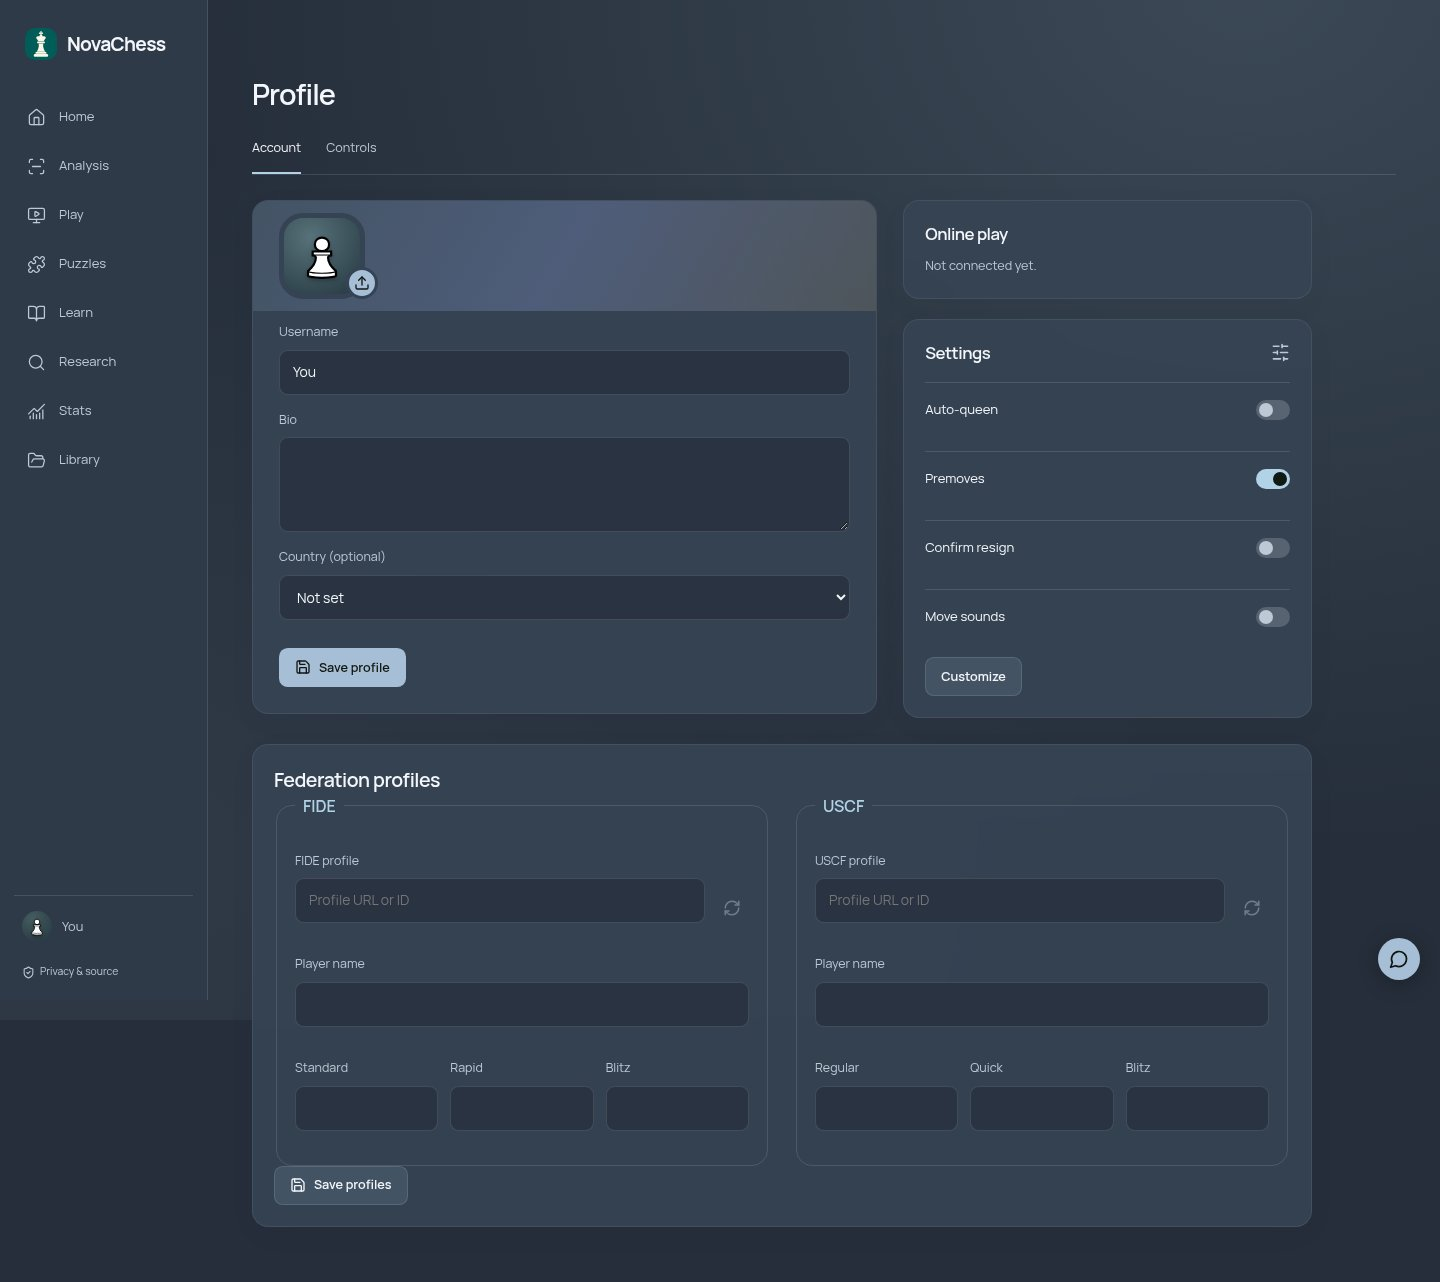
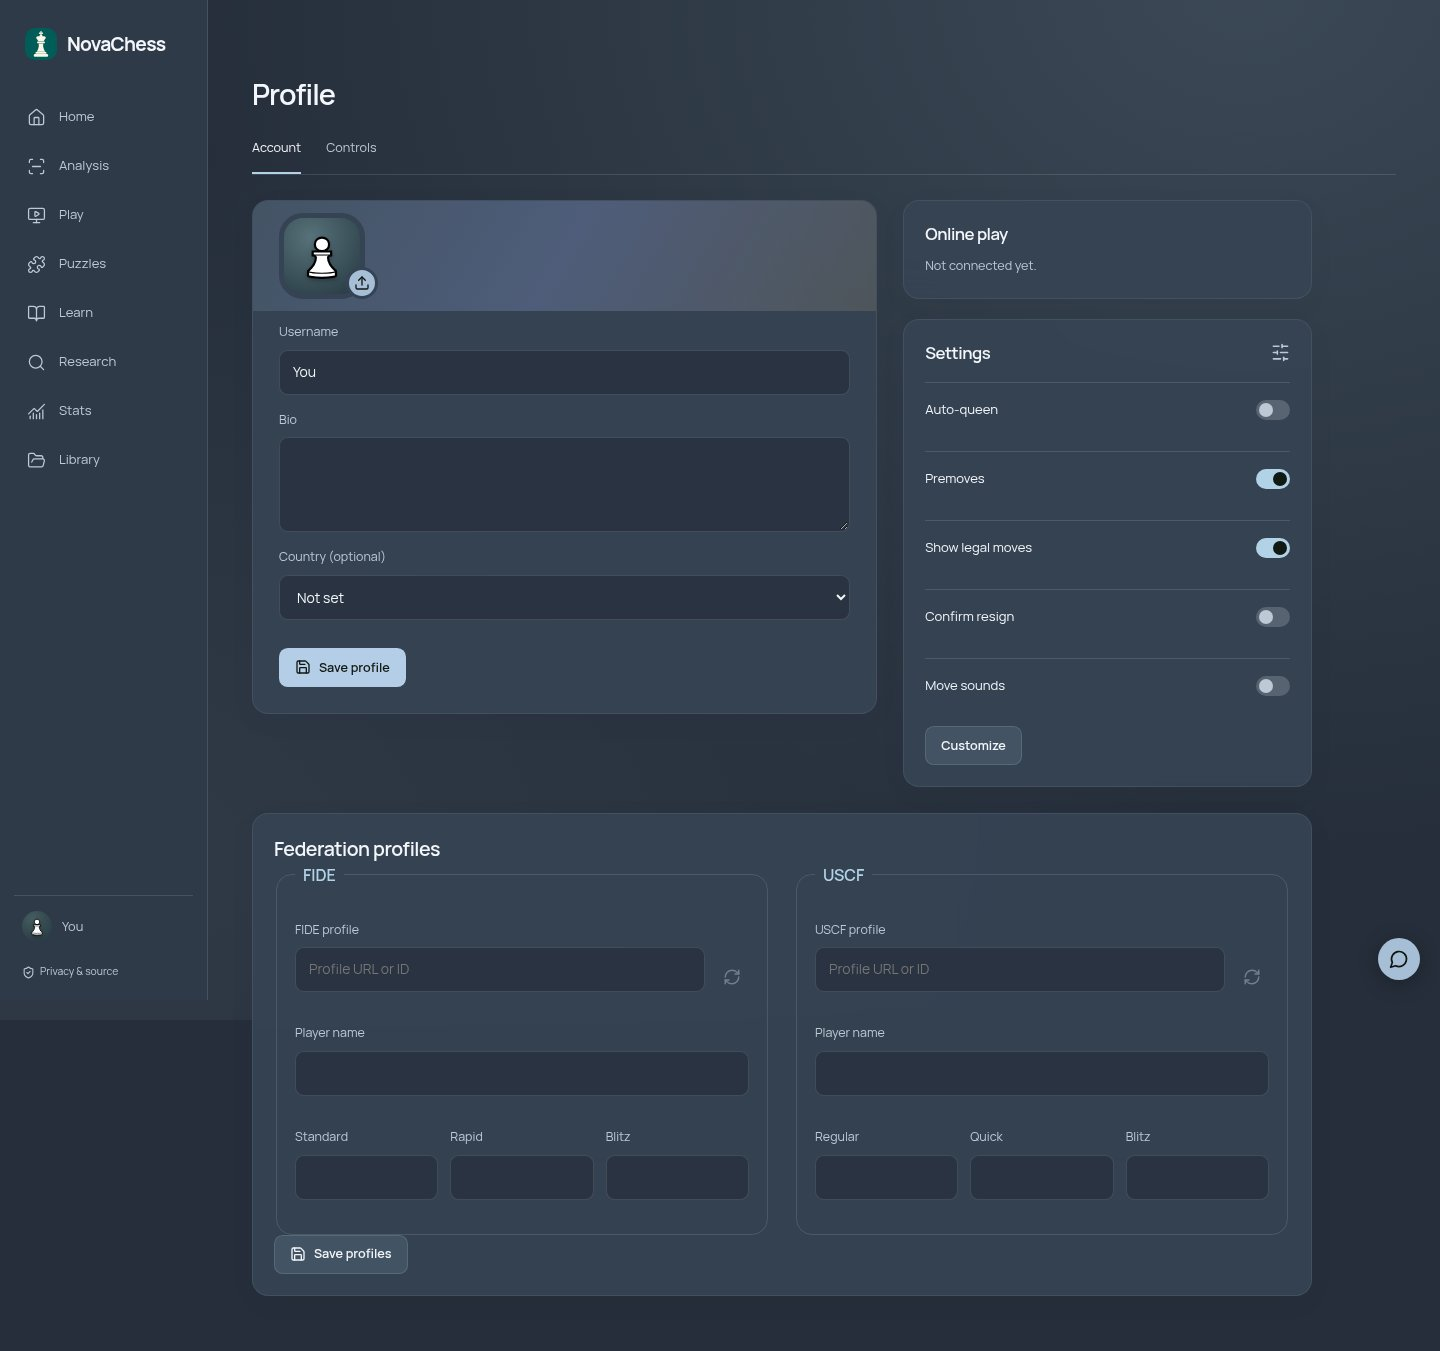
Add bold square highlights and more forgiving piece drops

diff --git a/src/components/Board.tsx b/src/components/Board.tsx
@@ -224,6 +224,19 @@ export function Board({
       row = Math.max(0, Math.min(7, Math.floor((y - box.top) / size)));
     return files[col] + ranks[row];
   }
+  function dropSquare(from: string, x: number, y: number) {
+    const direct = squareAt(x, y);
+    if (direct === from || moves!.some(m => m.startsWith(from + direct))) return direct;
+    const box = boardRef.current!.getBoundingClientRect(), size = box.width / 8;
+    const candidates = [...new Set(moves!.filter(m => m.startsWith(from)).map(m => m.slice(2, 4)))];
+    const nearby = candidates.map(to => {
+      const cx = box.left + (files.indexOf(to[0]) + .5) * size;
+      const cy = box.top + (ranks.indexOf(to[1]) + .5) * size;
+      const edgeDistance = Math.hypot(Math.max(0, Math.abs(x-cx)-size/2), Math.max(0, Math.abs(y-cy)-size/2));
+      return { to, edgeDistance, distance: Math.hypot(x-cx, y-cy) };
+    }).filter(t => t.edgeDistance <= size * .49).sort((a,b) => a.distance-b.distance);
+    return nearby[0]?.to ?? direct;
+  }
   function choose(from: string, to: string) {
     setSelected(from);
     const options = moves!.filter((m) => m.startsWith(from + to));
@@ -304,7 +317,7 @@ export function Board({
     const measure = () => {
       const rect = el.getBoundingClientRect();
       setMeasuredSize(Math.round(rect.width));
-      el.closest<HTMLElement>(".analysis-layout > .board-column")
+      el.closest<HTMLElement>(".board-column")
         ?.style.setProperty("--actual-board-width", `${rect.width}px`);
       // Leave room for material and replay controls; use document position so
       // scrolling never changes the board size while someone is using it.
@@ -393,7 +406,7 @@ export function Board({
           }
           if (g.moving) {
             suppressClick.current = true;
-            const to = squareAt(e.clientX, e.clientY);
+            const to = dropSquare(g.from, e.clientX, e.clientY);
             if (to && to !== g.from) choose(g.from, to);
             else setSelected(g.from);
           }
@@ -411,12 +424,15 @@ export function Board({
               piece = cells[square],
               fogged = visible && !visible.has(square),
               concealed = hidden || fogged,
+              squareMark = [...guides, ...currentMarks].reverse().find(m => m.from === square && m.to === square),
               isDark = (file.charCodeAt(0) - 97 + 8 - Number(rank)) % 2 === 1;
             return (
               <button
                 key={square}
                 className={`board-square ${isDark ? "dark" : "light"} ${active === square ? "selected" : ""} ${hint === square ? "hinted" : ""} ${appearance.lastMove && highlights.includes(square) ? "last-move" : ""} ${fogged ? "fogged" : ""} ${blocked.includes(square) ? "dropped-square" : ""} ${drag?.from === square ? "drag-origin" : ""}`}
                 aria-label={`${square}${blocked.includes(square) ? ", unavailable" : !concealed && piece ? `, ${piece === "*" ? "duck" : `${piece === piece.toUpperCase() ? "white" : "black"} ${names[piece.toLowerCase()] || piece}`}` : ", empty"}`}
+                data-annotation={squareMark?.color}
+                style={squareMark && !fogged && !blocked.includes(square) ? { background: squareMark.color } : undefined}
                 aria-pressed={active === square}
                 aria-disabled={
                   blocked.includes(square) || (disabled && !onSquare)
@@ -533,18 +549,7 @@ export function Board({
           {[...guides, ...currentMarks].map((m, i) => {
             const a = coord(m.from),
               b = coord(m.to);
-            if (m.from === m.to)
-              return (
-                <rect
-                  key={i}
-                  x={a.x - 6.25}
-                  y={a.y - 6.25}
-                  width={12.5}
-                  height={12.5}
-                  fill={m.color}
-                  opacity=".6"
-                />
-              );
+            if (m.from === m.to) return null;
             const dx = Math.abs(b.x - a.x),
               dy = Math.abs(b.y - a.y);
             const knight =

diff --git a/tests/forgiving-board.spec.ts b/tests/forgiving-board.spec.ts
@@ -1,0 +1,38 @@
+import { test, expect } from "@playwright/test";
+const square = (page: any, name: string) => page.getByRole("group", { name: "Chessboard", exact: true }).first().getByRole("button", { name: new RegExp("^" + name + ",") });
+test("nearby illegal squares and slightly off-board drops snap to the intended legal destination", async ({ page }) => {
+  await page.goto("/#analysis");
+  async function drop(from: string, to: string, offset: number) {
+    const a = (await square(page, from).boundingBox())!, b = (await square(page, to).boundingBox())!;
+    await page.mouse.move(a.x+a.width/2, a.y+a.height/2); await page.mouse.down();
+    await page.mouse.move(b.x + b.width*offset, b.y+b.height/2, {steps:8}); await page.mouse.up();
+  }
+  await drop("e2", "e4", 1.3);
+  await expect(square(page, "e4")).toHaveAttribute("aria-label", "e4, white pawn");
+  await page.getByRole("button", {name:"Reset",exact:true}).click();
+  await drop("a2", "a4", -.3);
+  await expect(square(page, "a4")).toHaveAttribute("aria-label", "a4, white pawn");
+});
+test("account legal-move preference persists and removes move dots everywhere", async ({ page }) => {
+  await page.goto("/#profile");
+  const setting = page.getByRole("checkbox", {name:"Show legal moves",exact:true});
+  await expect(setting).toBeChecked(); await setting.uncheck();
+  await page.goto("/#analysis"); await square(page,"e2").click();
+  await expect(page.locator(".legal-dot,.legal-capture")).toHaveCount(0);
+  await page.goto("/#profile"); await expect(setting).not.toBeChecked(); await setting.check();
+  await page.goto("/#analysis"); await square(page,"e2").click();
+  await expect(page.locator(".legal-dot")).toHaveCount(2);
+});
+test("solid square colors preserve pieces and player bars track a resized game board", async ({page}) => {
+  await page.goto("/#analysis");
+  await square(page,"e2").click({button:"right"});
+  await expect(square(page,"e2")).toHaveCSS("background-color","rgb(31, 186, 98)");
+  await expect(square(page,"e2").locator(".piece")).toBeVisible();
+  await page.goto("/#play");await page.getByRole("button",{name:"Start game",exact:true}).click();
+  const resize=page.getByRole("slider",{name:"Resize board",exact:true}).first();await resize.focus();await resize.press("ArrowLeft");await resize.press("ArrowLeft");
+  await expect.poll(async()=>{
+    const b=(await page.locator(".play-match .board").first().boundingBox())!;
+    const bars=await page.locator(".play-match .board-column > .player-strip").all();
+    return Math.max(...await Promise.all(bars.map(async el=>{const r=(await el.boundingBox())!;return Math.max(Math.abs(r.x-b.x),Math.abs(r.width-b.width));})));
+  }).toBeLessThan(1);
+});

diff --git a/tests/features.spec.ts b/tests/features.spec.ts
@@ -155,14 +155,14 @@ test("right click creates colored square marks and arrows, and controls change t
 }) => {
   await page.goto("/#analysis");
   await square(page, "e4").click({ button: "right" });
-  await expect(page.locator(".board-marks rect")).toHaveAttribute(
-    "fill",
-    "#187b46",
+  await expect(page.locator(".board-square[data-annotation]")).toHaveAttribute(
+    "data-annotation",
+    "#1fba62",
   );
   await square(page, "d4").click({ button: "right", modifiers: ["Shift"] });
-  await expect(page.locator(".board-marks rect").nth(1)).toHaveAttribute(
-    "fill",
-    "#205eab",
+  await expect(square(page, "d4")).toHaveAttribute(
+    "data-annotation",
+    "#2684ff",
   );
   const a = (await square(page, "a1").boundingBox())!,
     b = (await square(page, "a4").boundingBox())!;
@@ -175,12 +175,12 @@ test("right click creates colored square marks and arrows, and controls change t
   await page.getByLabel("Square / arrow annotation color").fill("#12abcd");
   await page.goto("/#analysis");
   await square(page, "e4").click({ button: "right" });
-  await expect(page.locator(".board-marks rect")).toHaveAttribute(
-    "fill",
+  await expect(page.locator(".board-square[data-annotation]")).toHaveAttribute(
+    "data-annotation",
     "#12abcd",
   );
   await page.keyboard.press("Escape");
-  await expect(page.locator(".board-marks rect")).toHaveCount(0);
+  await expect(page.locator(".board-square[data-annotation]")).toHaveCount(0);
 });
 test("promotion is adjacent and puts the queen under the release point", async ({
   page,

diff --git a/src/main.tsx b/src/main.tsx
@@ -115,13 +115,14 @@ function App() {
     // Refresh only the previous default board/colors, preserving custom choices.
     setAppearance((a) => {
       const oldMarks = {
-        green: "#63d6a1", blue: "#67b8ff", red: "#ff7b92", gold: "#ffd071",
+        green: ["#63d6a1", "#187b46"], blue: ["#67b8ff", "#205eab"],
+        red: ["#ff7b92", "#b3334a"], gold: ["#ffd071", "#b76808"],
       };
       const newMarks = annotationColors;
       const marks = a.markColors ? { ...a.markColors } : undefined;
       let changed = false;
       for (const key of Object.keys(oldMarks) as (keyof typeof oldMarks)[]) {
-        if (marks?.[key] === oldMarks[key]) {
+        if (marks?.[key] && oldMarks[key].includes(marks[key])) {
           marks[key] = newMarks[key];
           changed = true;
         }

diff --git a/tests/refinements.spec.ts b/tests/refinements.spec.ts
@@ -64,7 +64,7 @@ test("Research keeps a running request across navigation and weights its move ar
     .evaluateAll((es) => es.map((e) => Number(e.getAttribute("opacity"))));
   expect(opacity[0]).toBeGreaterThan(opacity[1]);
   await sq(page, "e4").click({ button: "right" });
-  await expect(page.locator(".board-marks rect")).toHaveCount(1);
+  await expect(page.locator(".board-square[data-annotation]")).toHaveCount(1);
   await expect(page.locator(".board-marks line")).toHaveCount(2);
 });
 test("trivia has a real question, separated clue and a spaced next action", async ({

diff --git a/tests/variant-ui.spec.ts b/tests/variant-ui.spec.ts
@@ -135,9 +135,9 @@ test("right click cancels premoves before highlighting and the next right click 
     "aria-label",
     /white knight/,
   );
-  await expect(page.locator(".board-marks rect")).toHaveCount(0);
+  await expect(page.locator(".board-square[data-annotation]")).toHaveCount(0);
   await square(page, "e6").click({ button: "right" });
-  await expect(page.locator(".board-marks rect")).toHaveCount(1);
+  await expect(page.locator(".board-square[data-annotation]")).toHaveCount(1);
   await expect
     .poll(
       () =>

diff --git a/src/pages/Profile.tsx b/src/pages/Profile.tsx
@@ -216,6 +216,11 @@ export default function Profile({ embedded = false }: { embedded?: boolean }) {
                 }
               />
               <Toggle
+                label="Show legal moves"
+                checked={appearance.legalMoves}
+                onChange={(legalMoves) => setAppearance(a => ({ ...a, legalMoves }))}
+              />
+              <Toggle
                 label="Confirm resign"
                 checked={appearance.confirmResign}
                 onChange={(confirmResign) =>

diff --git a/tests/analysis-controls.spec.ts b/tests/analysis-controls.spec.ts
@@ -63,7 +63,7 @@ test("right click cancels a held piece without moving or marking, and a differen
     "e2, white pawn",
   );
   await expect(
-    page.locator(".board-marks rect,.board-marks line,.board-marks polyline"),
+    page.locator(".board-square[data-annotation],.board-marks line,.board-marks polyline"),
   ).toHaveCount(0);
   const c = (await square(page, "d2").boundingBox())!,
     d = (await square(page, "d4").boundingBox())!;

diff --git a/src/redesign.css b/src/redesign.css
@@ -4212,3 +4212,7 @@ select.theme-select {
   .home-recent { margin-top: 18px; padding-top: 14px; }
   .home-practice-grid { max-width: 740px; margin-inline: auto; }
 }
+
+/* Player bars follow the rendered board, including manual and viewport resizing. */
+.play-match .board-column > .player-strip { width:var(--actual-board-width,100%); max-width:100%; box-sizing:border-box; }
+.board-square[data-annotation]::after { display:none; }

diff --git a/src/lib/store.ts b/src/lib/store.ts
@@ -56,10 +56,10 @@ export const backgrounds = [
   "Flag",
 ];
 export const annotationColors = {
-  green: "#187b46",
-  blue: "#205eab",
-  red: "#b3334a",
-  gold: "#b76808",
+  green: "#1fba62",
+  blue: "#2684ff",
+  red: "#f04461",
+  gold: "#ff9c16",
 };
 export const defaults: Appearance = {
   theme: "Steel",

diff --git a/docs/VALIDATION.md b/docs/VALIDATION.md
@@ -1,5 +1,7 @@
 # Validation
 
+- Bold highlights/drop update: square annotations replace the square background with a solid bright color while pieces remain visible. Near-miss drops snap to nearby legal destinations; distant invalid drops and canceled drags retain prior behavior. Player bars follow actual board width, and account settings expose the persistent legal-move toggle. 71 targeted desktop/mobile checks passed (one desktop-only layout scenario skipped on mobile); production Analysis/Profile passed accessibility and overflow checks.
+
 - Analysis toolbar update: all four labeled tools remain visible; top lines are limited to a 1/2/3 toggle and separated into bordered panels. Desktop positional insights align with the board, and replay width follows the actual board size when viewport limits shrink it. Desktop/mobile production checks verify all three line counts, accessibility and overflow.
 
 - Board/tools/choice refresh: manually resized boards persist per section, follow the global width setting, and cap their size to available viewport height. Analysis defaults smaller, has one four-action tools menu and separate White/Black tables for each principal line. Typed moves exist only in Blindfold text; returned/canceled pieces stay selected. Puzzle ratings are centered and completion uses only the outline. Research uses aligned source/color toggles and uniform-width frequency arrows with variable opacity and no board percentages. All actual two/three-option choices use toggle bars. Neutral slate defaults migrate previous defaults while preserving custom colors.
